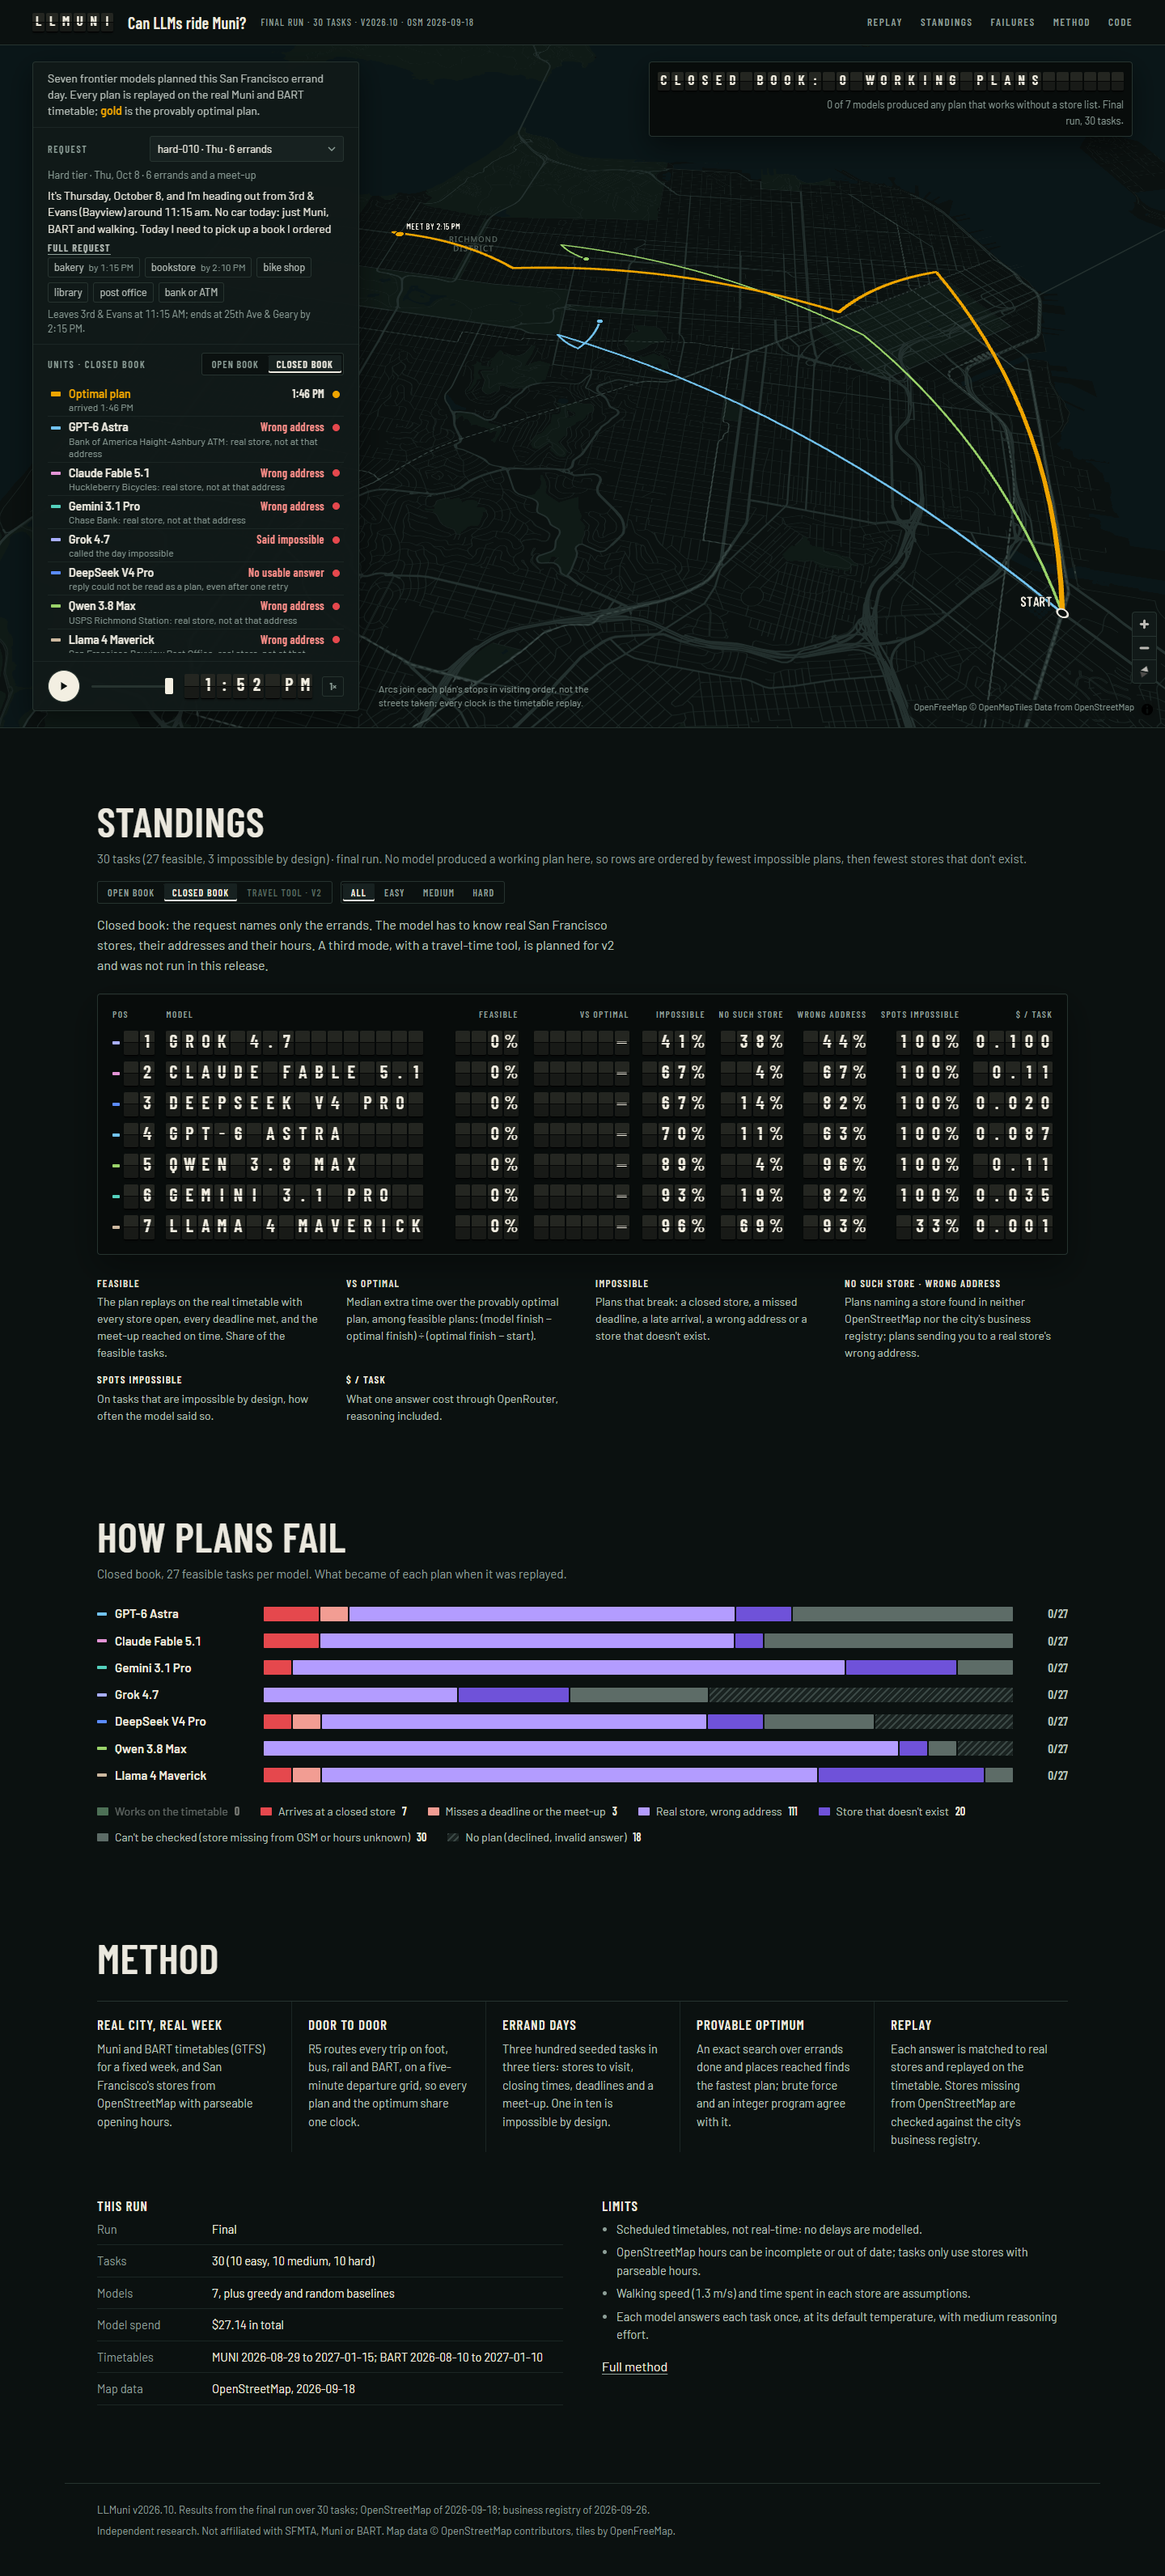
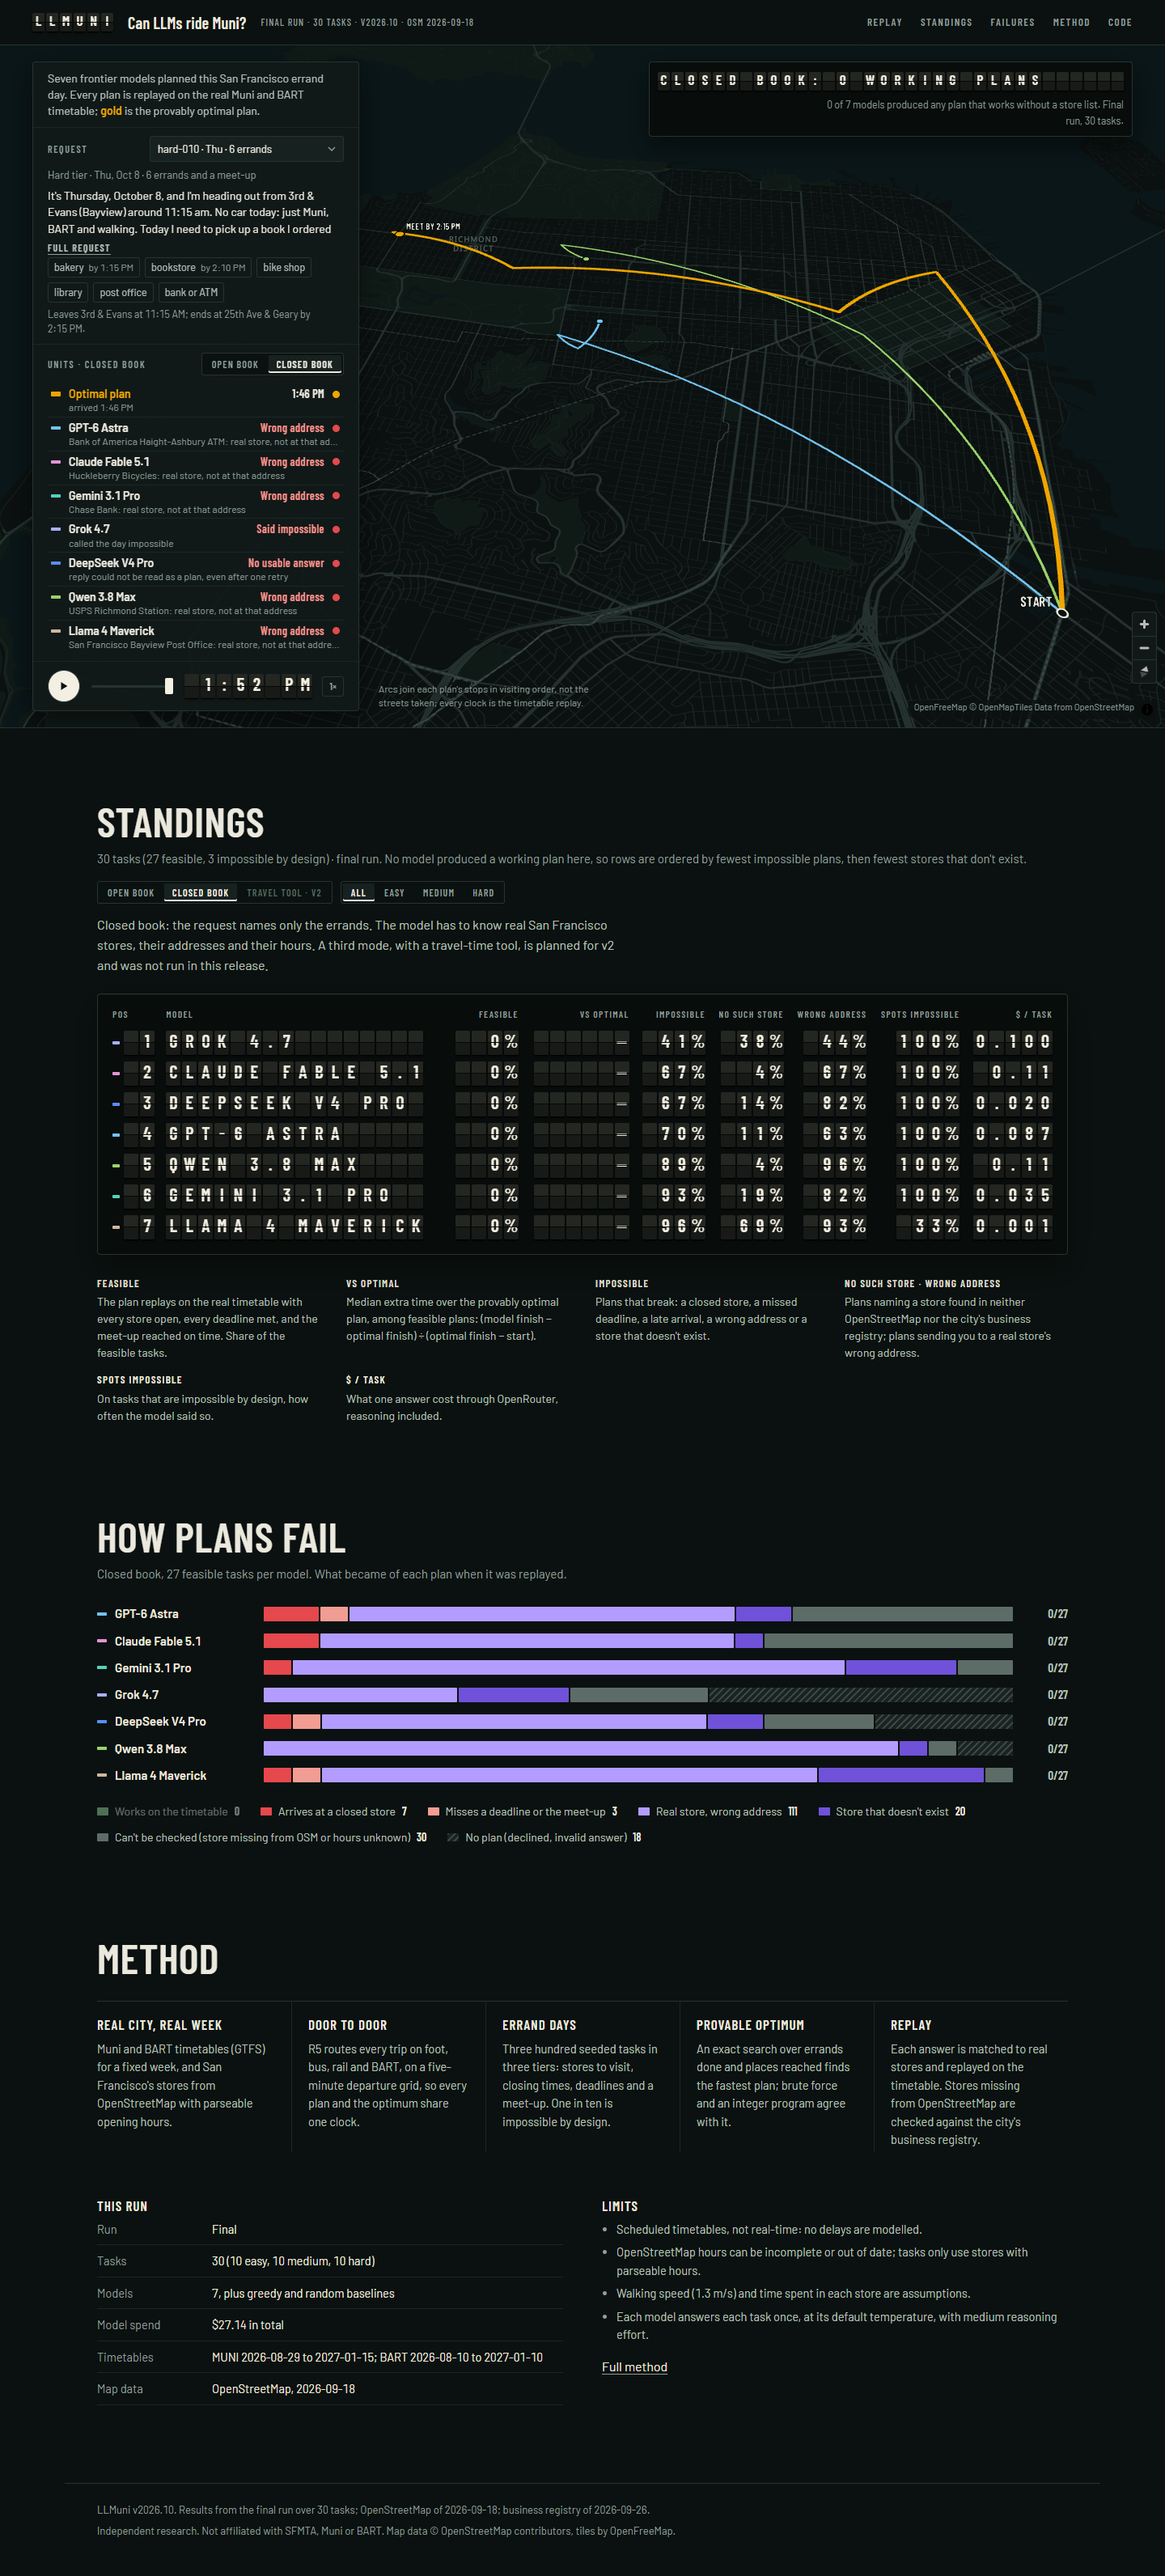
Site: second review batch (one-line unit states with scroll cue, store alerts below their point, phone cost precision, headline breaks at the colon)

Changed region(s): [[0.0312, 0.1555, 0.2812, 0.2487]]

diff --git a/site/src/replay.ts b/site/src/replay.ts
@@ -31,7 +31,8 @@ interface Alert {
   at: XY;
   time: number;
   label: string;
-  stack: number; // labels at nearby places stack upwards instead of overlapping
+  stack: number; // labels at nearby places stack instead of overlapping
+  atEnd: boolean; // late at the meet-up: stacks above; a failure at a store hangs below its point
 }
 
 export class Replay {
@@ -259,7 +260,8 @@ export class Replay {
         }),
         new TextLayer<Alert>({
           id: "alert-labels", data: live, getPosition: (a) => a.at, getText: (a) => a.label, getSize: 16,
-          getColor: [255, 236, 234], getPixelOffset: (a) => [side(a.at) === "start" ? 12 : -12, -24 - 25 * a.stack],
+          getColor: [255, 236, 234], getPixelOffset: (a) => [side(a.at) === "start" ? 12 : -12, a.atEnd ? -12 - 25 * a.stack : 16 + 25 * a.stack],
+          getAlignmentBaseline: (a) => (a.atEnd ? "bottom" : "top"),
           fontFamily: "Barlow Condensed, sans-serif", fontWeight: 700, characterSet: "auto", background: true,
           getBackgroundColor: [150, 32, 36, 235], backgroundPadding: [6, 3, 6, 3], getTextAnchor: (a) => side(a.at),
           updateTriggers: { getTextAnchor: [t], getPixelOffset: [t] },
@@ -299,6 +301,9 @@ export class Replay {
   private renderUnits() {
     const list = this.$(".unit-list");
     list.replaceChildren();
+    const cue = () => list.classList.toggle("has-more", list.scrollTop + list.clientHeight < list.scrollHeight - 2);
+    list.onscroll = cue;
+    requestAnimationFrame(cue);
     const best = this.units.find((u) => u.optimal)?.oracle;
     for (const u of this.units) {
       const li = document.createElement("li");
@@ -327,7 +332,13 @@ export class Replay {
   private updateUnits() {
     for (const u of this.units) {
       const state = u.row?.querySelector(".unit-state");
-      if (state) state.textContent = stateOf(u, this.t, this.task);
+      if (state) {
+        const text = stateOf(u, this.t, this.task);
+        if (state.textContent !== text) {
+          state.textContent = text;
+          u.row!.title = `${u.name}: ${text}`;
+        }
+      }
       u.row?.setAttribute("data-lamp", lampOf(u, this.t, this.task));
     }
   }
@@ -364,9 +375,10 @@ function stack(alerts: Alert[], task: TaskInfo): Alert[] {
   const near = (a: XY, b: XY) => Math.abs(a[0] - b[0]) < 0.004 && Math.abs(a[1] - b[1]) < 0.003;
   const placed: Alert[] = [];
   for (const a of alerts.sort((x, y) => x.time - y.time)) {
-    const below = placed.filter((p) => near(p.at, a.at)).length;
-    const endLabel = task.end && near(task.end.at, a.at) ? 1 : 0; // the meet-up label sits there already
-    placed.push({ ...a, stack: below + endLabel });
+    // late arrivals stack upwards above the meet-up label (slot 0); store failures hang downwards from their point
+    const atEnd = a.atEnd || (!!task.end && near(task.end.at, a.at));
+    const sameSide = placed.filter((p) => p.atEnd === atEnd && near(p.at, a.at)).length;
+    placed.push({ ...a, atEnd, stack: atEnd ? sameSide + 1 : sameSide });
   }
   return placed;
 }
@@ -377,11 +389,11 @@ function alertOf(u: Unit, task: TaskInfo): Alert[] {
   const failed = p.stops.find((s) => s.failed);
   if (failed?.at && failed.arrive != null) {
     const label = failed.failed === "closed" ? "CLOSED" : failed.failed === "deadline" ? "MISSED DEADLINE" : failed.failed!.toUpperCase();
-    return [{ at: failed.at, time: failed.arrive, label: `${modelName(u.id).toUpperCase()} · ${label}`, stack: 0 }];
+    return [{ at: failed.at, time: failed.arrive, label: `${modelName(u.id).toUpperCase()} · ${label}`, stack: 0, atEnd: false }];
   }
   if (p.kind === "late" && task.end && p.end_arrive != null) {
     const late = task.end.arrive_by != null ? Math.round(p.end_arrive - task.end.arrive_by) : null;
-    return [{ at: task.end.at, time: p.end_arrive, label: `${modelName(u.id).toUpperCase()} · LATE${late ? ` +${late} MIN` : ""}`, stack: 0 }];
+    return [{ at: task.end.at, time: p.end_arrive, label: `${modelName(u.id).toUpperCase()} · LATE${late ? ` +${late} MIN` : ""}`, stack: 0, atEnd: true }];
   }
   return [];
 }

diff --git a/site/src/styles.css b/site/src/styles.css
@@ -229,7 +229,10 @@ input, select { font: inherit; color: inherit; caret-color: var(--gold); }
 .unit[data-kind="optimal"] .swatch { height: 6px; }
 .unit-name { grid-area: name; font-weight: 600; font-size: 14px; line-height: 1.3; white-space: nowrap; overflow: hidden; text-overflow: ellipsis; }
 .unit[data-kind="optimal"] .unit-name { color: var(--gold); }
-.unit-state { grid-area: state; font-size: 12px; line-height: 1.25; color: var(--label); display: -webkit-box; -webkit-line-clamp: 2; -webkit-box-orient: vertical; overflow: hidden; }
+.unit-state { grid-area: state; font-size: 12px; line-height: 1.3; color: var(--label); white-space: nowrap; overflow: hidden; text-overflow: ellipsis; }
+.unit:hover .unit-state, .unit:focus-visible .unit-state { white-space: normal; }
+/* a list that scrolls says so: its last row fades out */
+.unit-list.has-more { mask-image: linear-gradient(#000 calc(100% - 44px), transparent); }
 .unit-result { grid-area: result; font: 600 14px/1.3 var(--signage); letter-spacing: 0.03em; text-align: right; white-space: nowrap; }
 .unit-result small { font: 500 12px var(--signage); color: var(--label); margin-left: 4px; }
 .unit-result .bad { color: #ff8f8a; }

diff --git a/site/src/board.ts b/site/src/board.ts
@@ -99,7 +99,8 @@ export class Board {
         slot.cells[k].set(text, animate ? { delay: i * 55, stagger: 11, steps: 4, stepMs: 64 } : { stepMs: 0 });
         slot.sr[k].textContent = row ? c.sr(row) : "";
       });
-      const cost = row && !row.baseline && row.s.tasks ? `$${(row.s.cost_usd / row.s.tasks).toFixed(2).replace(/^0/, "")}` : "";
+      const perTask = row && !row.baseline && row.s.tasks ? row.s.cost_usd / row.s.tasks : null; // same precision as the $ column
+      const cost = perTask == null ? "" : `$${perTask.toFixed(perTask < 0.1 ? 3 : 2).replace(/^0/, "")}`;
       slot.line.set(row ? `${pct(row.s.feasible_pct)} ${gap(row.s.median_gap)} ${cost}`.trim() : "",
         animate ? { delay: i * 55 + 200, stagger: 11, steps: 3, stepMs: 64 } : { stepMs: 0 });
     });

diff --git a/site/src/main.ts b/site/src/main.ts
@@ -122,6 +122,8 @@ async function start() {
 
 function splitLine(text: string, width: number): [string, string] {
   if (text.length <= width) return [text, ""];
+  const colon = text.indexOf(": ");
+  if (colon > 0 && colon < width && text.length - colon - 2 <= width) return [text.slice(0, colon + 1), text.slice(colon + 2)];
   const cut = text.lastIndexOf(" ", width);
   return cut > 0 ? [text.slice(0, cut), text.slice(cut + 1)] : [text.slice(0, width), text.slice(width)];
 }

diff --git a/reports/MORNING.md b/reports/MORNING.md
@@ -1,0 +1,132 @@
+# Morning report: LLMuni, overnight run (2026-09-26)
+
+Everything you asked for is built, committed and pushed to `origin main`, which is still private. Nothing is
+deployed. Total model spend is **$27.14 of the $29 cap**. `.env` was never read or edited.
+
+## What's done
+
+- **Final run:** closed and open book for all 7 models on 15 more tasks (rounds 6-10, one task per tier each).
+  That makes **30 tasks, 10 per tier**. Round 11 was refused automatically: it needed 1.25 × $2.63 and only $1.86
+  was left. No memory stops; it finished on the first attempt. Every answer and the ledger are committed.
+- **Hallucination split:** the grader now checks stores missing from OpenStreetMap against San Francisco's
+  business registry (DataSF). The old "hallucinated" label now splits three ways:
+  - *not in OSM* (a real store, counted as unverifiable);
+  - *wrong address*;
+  - *no such store*.
+
+  A stop that cannot exist now outranks an earlier stop that is merely unverifiable. Tests cover all of it.
+- **Results and leaderboard:** `results/results.json`, `results/leaderboard.{json,md}` and
+  `results/grades.jsonl`. The README's headline and leaderboard are generated from them (`make readme`).
+- **Site:** night dispatch console with a split-flap standings board. It has a 3D replay of any task
+  (default: hard-010), the board with mode and tier switches, a "How plans fail" chart and a method section.
+  It was built with impeccable + emil-design-eng and reviewed by a fresh reviewer.
+  Result: [see "Site review" below].
+- **Video:** Remotion, 42 s, hero task hard-010, both formats rendered. **README:** GIF at the top, generated
+  tables, reproduce steps and limitations. **FINISH.md** and **`make finish`**: tool mode is the opt-in v2 step
+  (`TOOL_MODE=3`).
+- **Tests:** all 326 pass (`uv run pytest`; the R5 integration tests stay opt-in via `make test-router`). Both
+  TypeScript projects typecheck and the site builds (`site/dist`).
+
+## Final headline numbers (30 tasks, 27 feasible and 3 impossible by design)
+
+| Open book | Feasible | Vs optimal (median) |
+|---|---:|---:|
+| GPT-6 Astra | 96% | +1.8% |
+| Grok 4.7 | 96% | +7.0% |
+| Gemini 3.1 Pro | 93% | +8.3% |
+| Claude Fable 5.1 | 85% | +2.2% |
+| Qwen 3.8 Max Prime | 78% | +13.2% |
+| *Greedy baseline* | *70%* | *+8.5%* |
+| DeepSeek V4 Pro | 59% | +11.3% |
+| Llama 4 Maverick | 56% | +26.4% |
+
+- **Closed book:** 0% feasible for every model. Pooled over all models, 82% of the plans are impossible:
+  - 111 wrong addresses;
+  - 20 stores found in neither source;
+  - 10 closed or late.
+
+  A further 30 plans can't be checked. Grok 4.7 has the fewest impossible plans (41%).
+- Every model except Llama called all 3 impossible tasks impossible. The greedy baseline beats DeepSeek and
+  Llama in open book.
+
+## Where to look
+
+- **Videos:** `video/out/llmuni_16x9.mp4` (1920×1080) and `video/out/llmuni_4x5.mp4` (1080×1350). Both are
+  silent and 42 s. README GIF: `docs/hero.gif`.
+- **Site preview:** screenshots in `reports/phase7/`: `desktop.png`, `mobile.png`, and `closed-book.png` for the
+  closed-book state. To run it locally: `cd site && npm install && npm run dev`. For the production build:
+  `npm run build && npx vite preview`, served from `site/dist`.
+- **Numbers:** `results/leaderboard.md`; method in `docs/methods.md`; blocked item in `reports/BLOCKED.md`.
+
+## Design decisions I made (veto any)
+
+**Benchmark and grading**
+
+1. **Final-run sizing.** The final run uses whole rounds (one task per tier), each started only if 1.25× its
+   expected cost fits. That margin left $1.86 unspent rather than risk a half-answered round.
+2. **Ledger behavior.** The ledger now waits for in-flight calls instead of refusing them. Final-run concurrency
+   was 6.
+3. **The split's second source** is SF Registered Business Locations. *Not in OSM* is scored unverifiable, like
+   unknown hours. *Wrong address* and *no such store* make a plan impossible. "No such store %" is an upper bound:
+   a store registered under a different legal name lands there.
+4. **Precedence.** A stop that cannot exist beats an earlier unverifiable stop. This moved closed-book impossible
+   rates from 22-82% to 41-96%.
+5. **Closed-book ties.** Every model is at 0% feasible, so ranks break on fewest impossible plans, then fewest
+   invented stores. The headline's "best closed-book model" is therefore Grok 4.7.
+
+**Site**
+
+6. **Materials and type.** Green-black slate, not blue, with Barlow and Barlow Condensed (California signage
+   lettering), self-hosted. Gold means optimal only and red means failure only; the seven model colors avoid both.
+7. **First viewport.** The replay is the first viewport (hero hard-010, open book). It autoplays once, except
+   with reduced motion. A split-flap message board states the leader.
+8. **Map.** A custom slate map style over OpenFreeMap tiles (no key needed): dashed rail lines, 3D buildings,
+   neighborhood labels.
+9. **Hops are timed arcs, not street paths.** A caption says so (R5 geometry is blocked; see `BLOCKED.md`).
+10. **One mode switch.** Open/closed drives the replay, the board and the failure chart together. A tier switch
+    filters the board only.
+11. **Board motion.** The board flips when it scrolls into view and on every switch. Baselines are dimmed and
+    unranked.
+12. **Failure chart.** "Can't be checked" is separated from "impossible" so closed-book 0% isn't overstated.
+13. **Committed site data.** `site/public/data` is committed and `npm run build` no longer calls Python, so a host
+    can build the site as-is.
+14. **From the finish review.**
+    - Every unit gets a round status lamp: a ring while its outcome is open, then gold, sage, red or gray the
+      moment it is decided.
+    - A run and sample stamp sits in the top strip.
+    - The headline note gives its denominator (26 of 27 feasible tasks).
+    - "Travel tool · v2" shows as a disabled mode.
+    - Closed book prints its ordering rule.
+    - Phones get a two-row flap headline and a second flap line of key numbers under each board row.
+    - A social card (`site/public/og.png`, a frame of the video) is wired into the page's meta tags.
+
+**Video**
+
+15. **Deterministic map.** A pre-rendered street and rail plate from our own OSM and GTFS data, with a
+    CSS 3D camera. Deterministic, and no map API.
+16. **Title line.** The brief's line was "I gave AI 300 real San Francisco errand days". It became "I gave 7
+    frontier AI models real San Francisco errand days…", because 30 of the 300 tasks were run.
+17. **Third stat card.** The brief's "with a travel-time tool" card is replaced by "77% [of closed-book plans]
+    sent you to a store that isn't there", since tool mode wasn't run.
+18. **Stat card 1.** It pools every model's closed-book plans (82%) instead of "the best model's" rate.
+19. **Arrivals board.** The finish shot is an arrivals board: short names in 16:9, full names in 4:5.
+20. **No soundtrack.** CRF 23 encodes (about 24 MB and 17 MB). The end card shows github.com/almajna/LLMuni.
+21. **README GIF.** 15 s of the race at 640 px and 8 fps (5.7 MB).
+
+## Blocked
+
+- **R5 street and transit geometry for the replay:** out of Java heap at 4 GB, three attempts. Shipped as timed
+  arcs instead. The 10-minute fix on a machine with 8 GB free is in `reports/BLOCKED.md`.
+
+## To launch (what's left for you)
+
+1. **Review and veto.** Watch the two videos, open the site (`cd site && npm install && npm run dev`), and veto
+   any decision above.
+2. **Make the repo public** (GitHub → Settings → Change visibility). The site, README and end card all link to
+   github.com/almajna/LLMuni.
+3. **Deploy the site.** On Vercel, import the repo with root directory `site`, build command `npm run build`
+   and output `dist`. No environment variables are needed.
+4. **Post the video.** Use 4:5 for feeds and 16:9 for YouTube/X, with the site link. Add music if you like;
+   both renders are silent.
+5. **Optional, more budget:** `make finish BUDGET_USD=<new total> TOOL_MODE=3` adds tool mode (about $210) and
+   more rounds of tasks (about $2.63 per three tasks).
